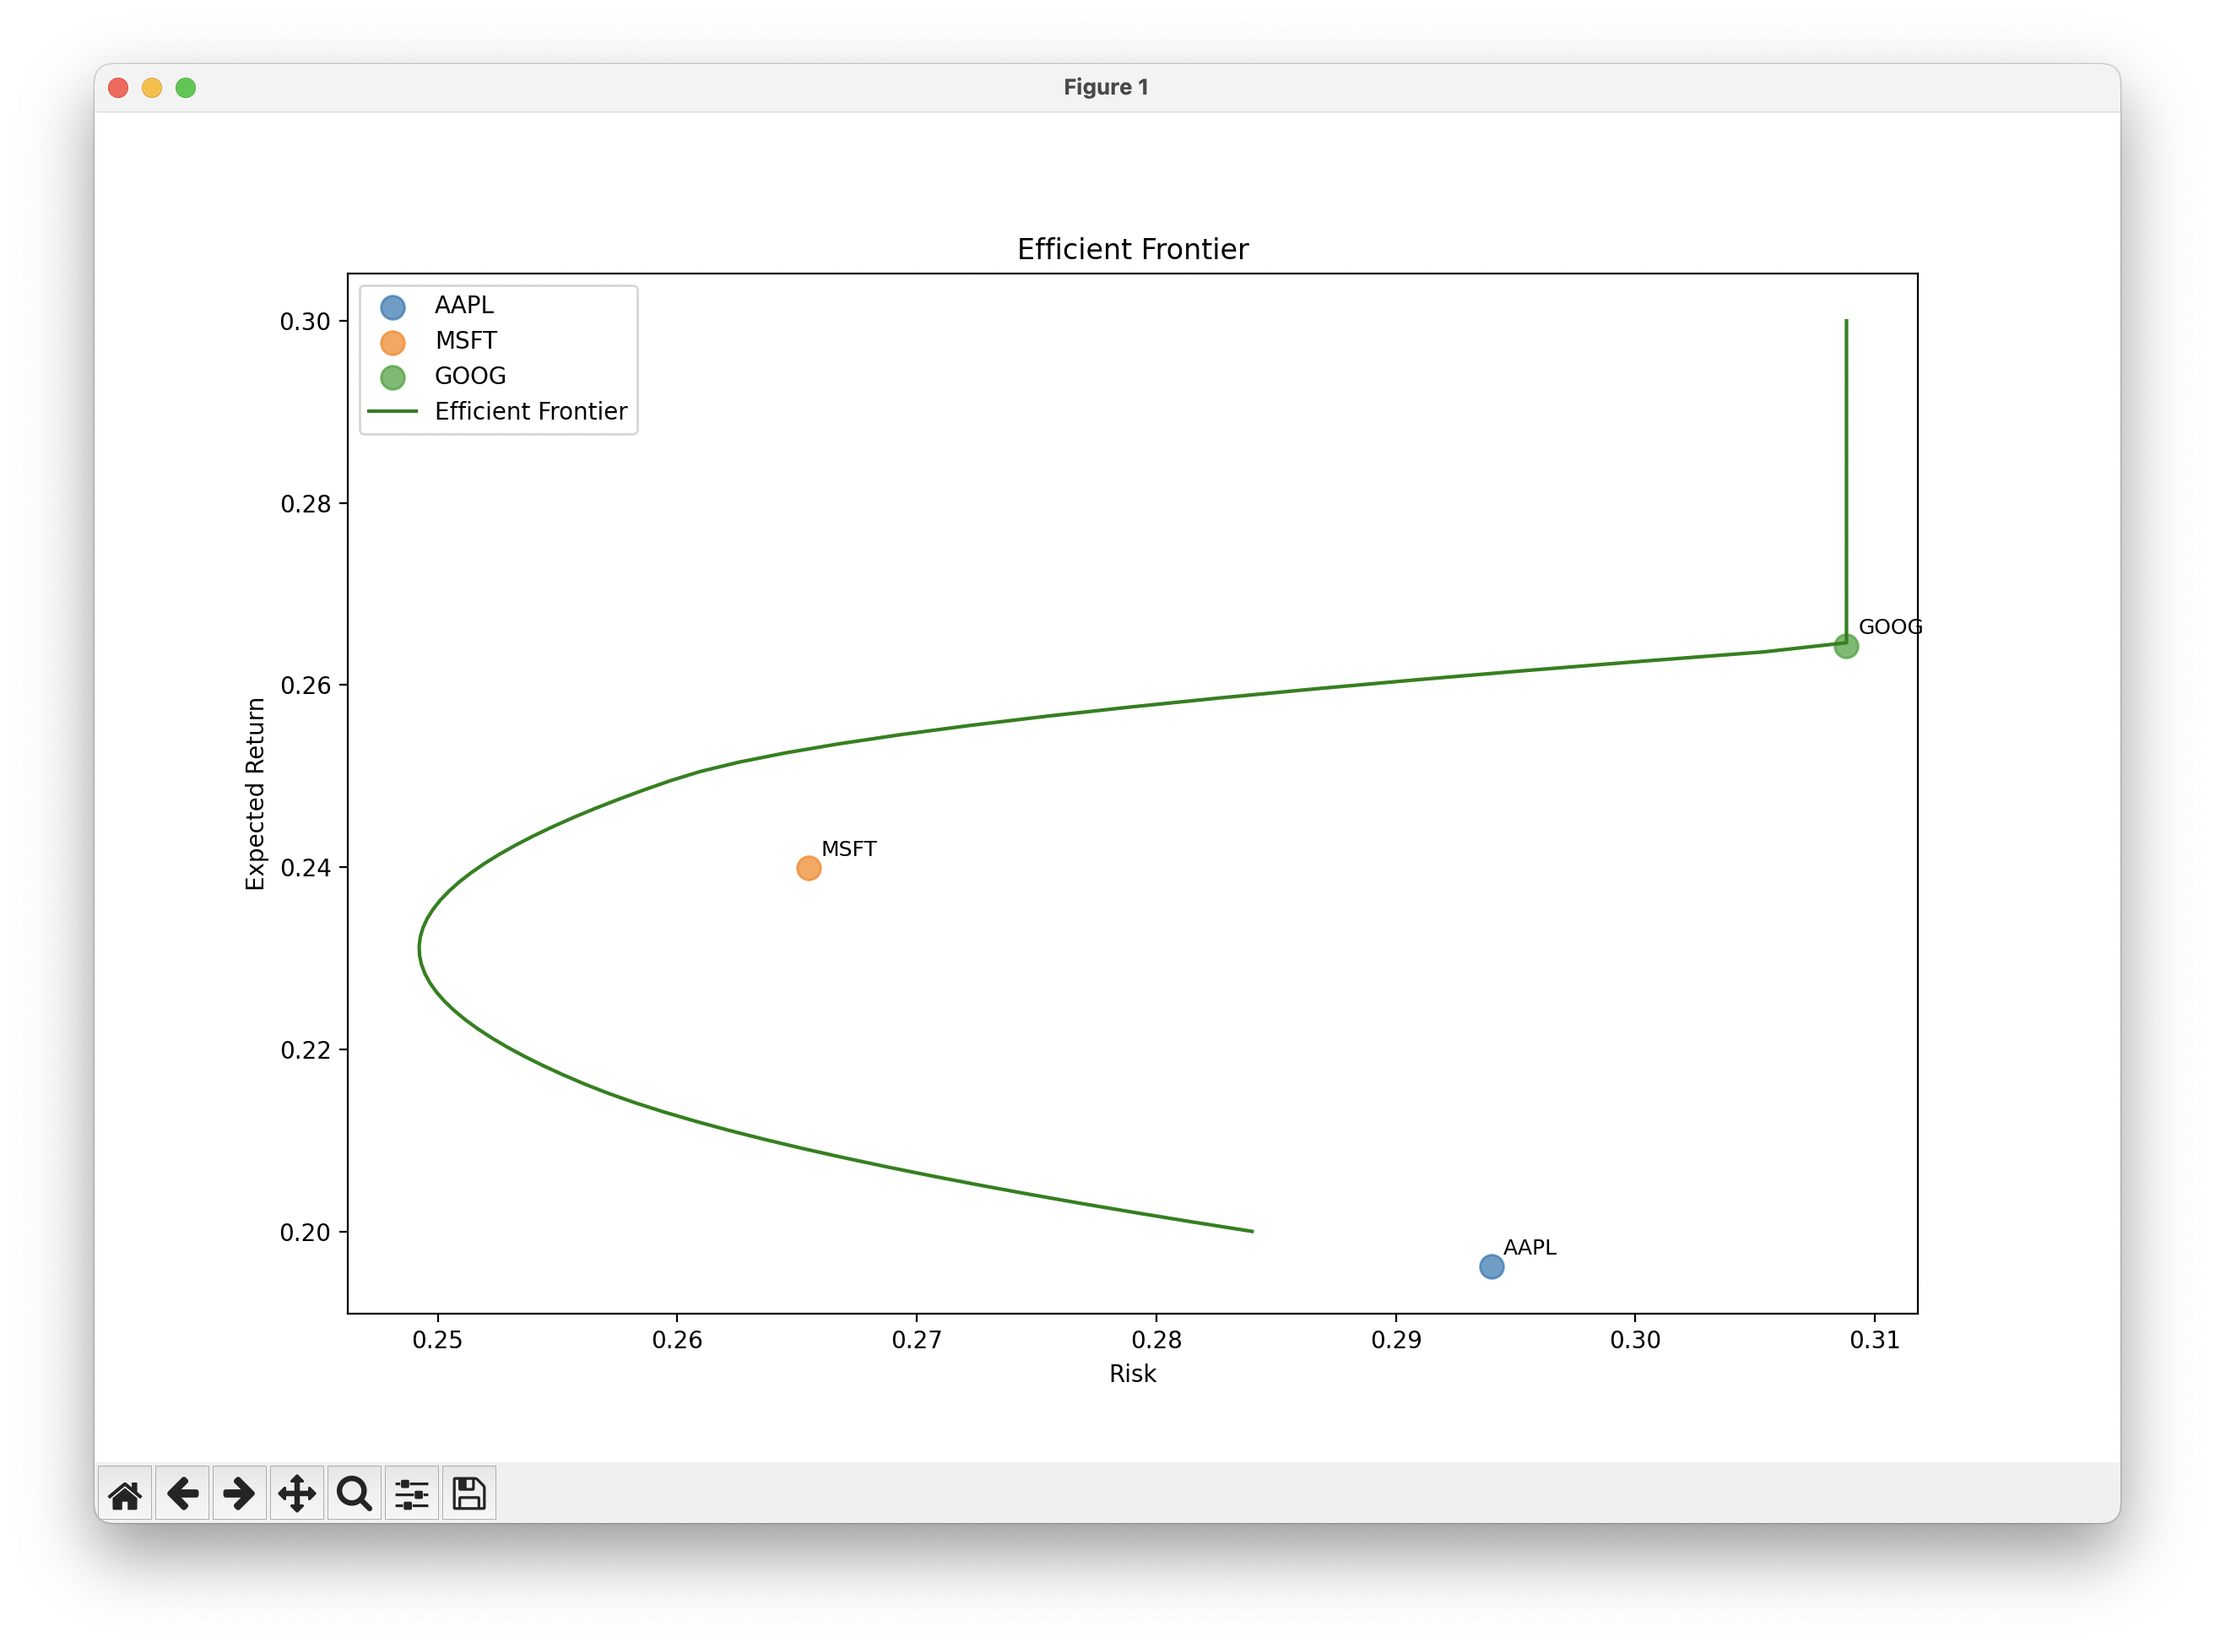
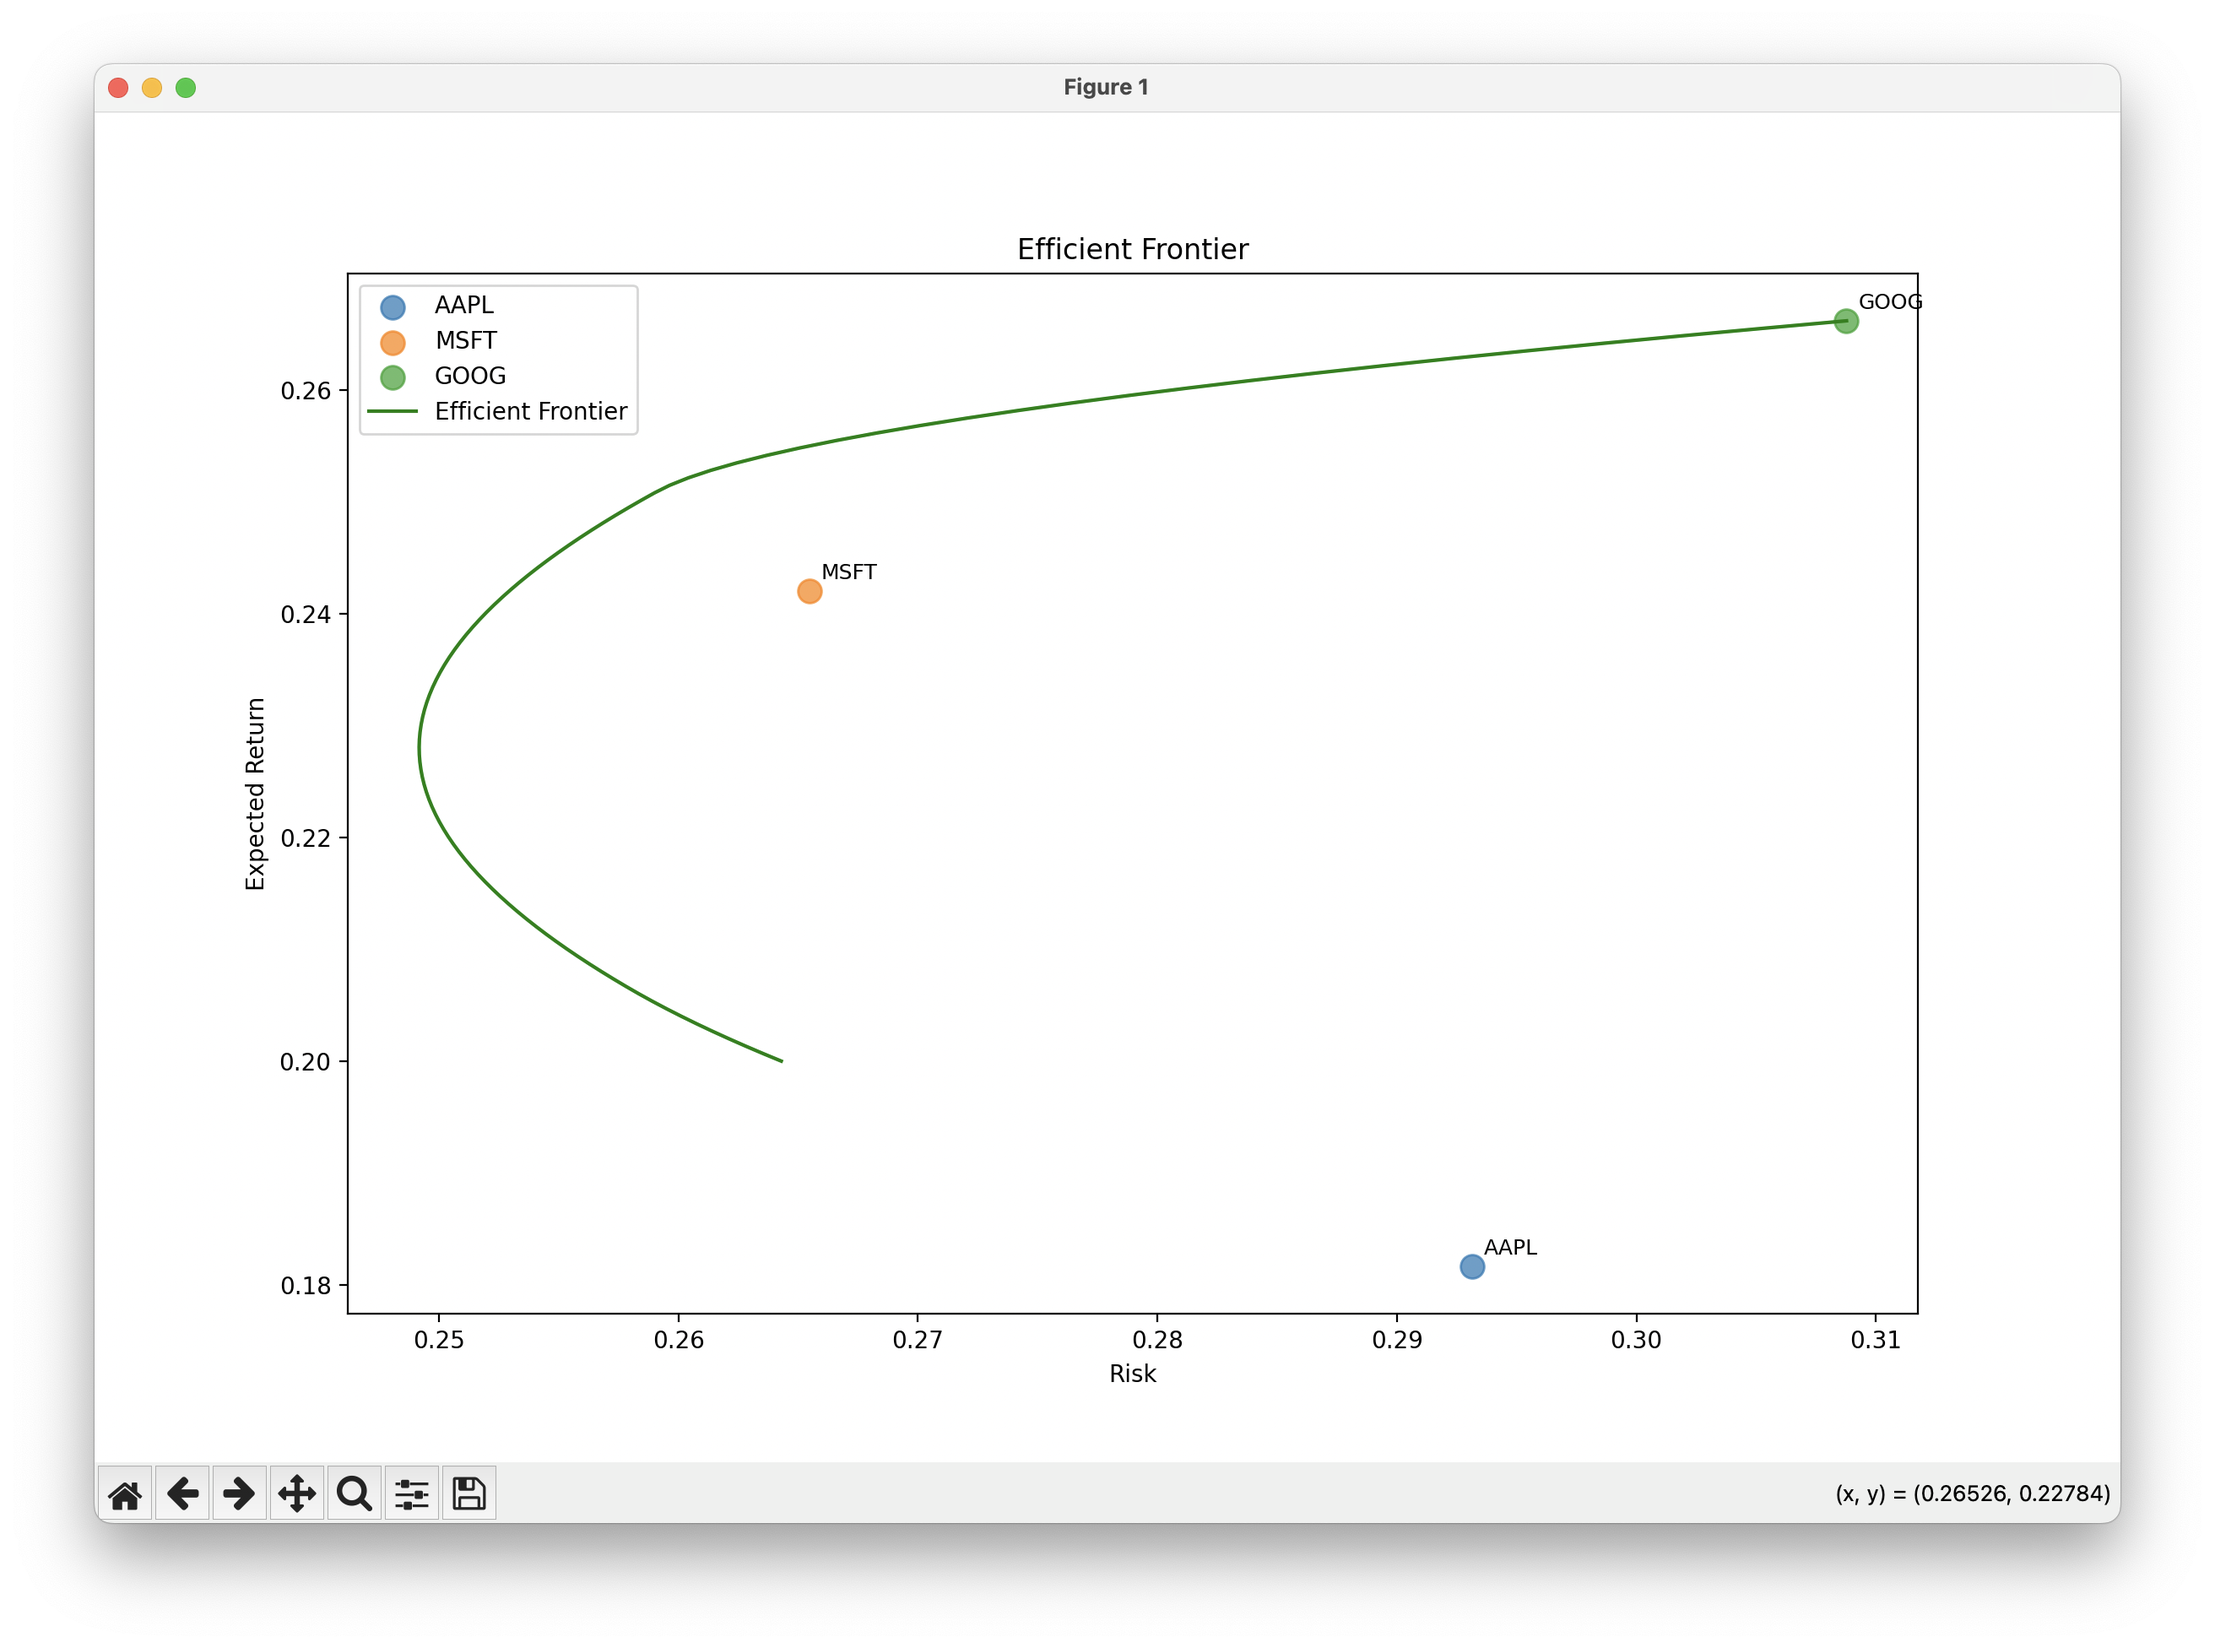
Fixed a graph bug where the range of returns could be set higher than the min and max available. Added new screenshots of non buggy graph

diff --git a/main.py b/main.py
@@ -141,7 +141,8 @@ def optimise_portfolio(data, tickers, range_of_returns):
         List of asset tickers to include in the portfolio.
     range_of_returns : list or tuple of float
         Lower and upper bounds of expected returns (annualised) for which to compute 
-        the efficient frontier, like [0.05, 0.25] for example.
+        the efficient frontier, like [0.05, 0.25] for example (as long as they are within
+        the expected returns of the individual stocks, otherwise the min and max expected returns are shown)
 
     Returns
     -------
@@ -177,8 +178,9 @@ def optimise_portfolio(data, tickers, range_of_returns):
 
     efficient_portfolios = []
 
-    min_return = range_of_returns[0]
-    max_return = range_of_returns[1]
+    min_return = max(range_of_returns[0], min(expected_returns))
+
+    max_return = min(range_of_returns[1], max(expected_returns))
     target_returns = np.linspace(min_return, max_return, 100)
 
     x0 = np.ones(len(tickers)) / len(tickers)  # equal weight start
